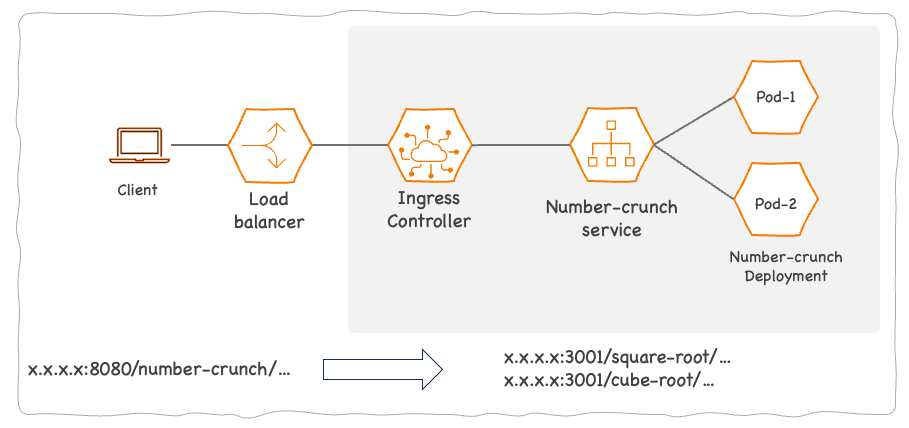
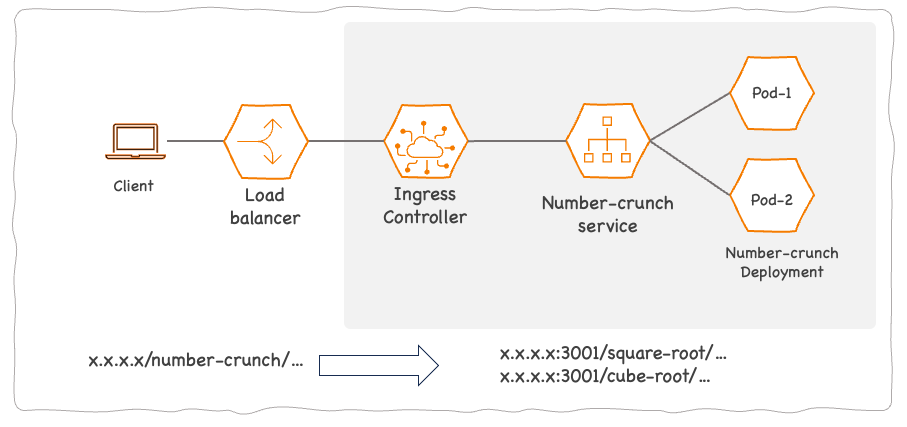
ingress usecases

diff --git a/_drafts/2023-07-01-how-to-use-kubernetes-ingress.md b/_drafts/2023-07-01-how-to-use-kubernetes-ingress.md
@@ -1,10 +1,10 @@
 ---
 layout: post
-title:  "What is Kubernetes Ingress"
+title:  "How to use Kubernetes ingress"
 description: > 
-  What is the purpose of Kubernetes Ingress and how to use it to expose HTTP(S) workloads.
+  X usecases of using ingress for exposing HTTP applications inside the cluster
 image: "k8s-ingress-cover.png"
-date:   2023-06-23 15:10:00 +0530
+date:   2023-07-13 15:10:00 +0530
 categories: [hands-on]
 tags: [Kubernetes]
 ---
@@ -13,66 +13,18 @@ tags: [Kubernetes]
 Ingress is a mechanism for exposing HTTP or HTTPS application running inside a Kubernetes cluster. 
 </div>
 
-An application running inside a Kubernetes cluster is not directly accessible from outside most of the time. For exposing such applications to outside clients, Kubernetes provides several methods.
+Kubernetes ingress is a mechanism for exposing applications running inside the Kubernetes cluster via HTTP or HTTPS.
 
-Ingress is one such method and is better suited for exposing Kubernetes Workloads via HTTP or HTTP(S).
+While there are several methods for exposing an application like NodePort or LoadBalancer, ingress is the best option for HTTP applications.
 
-Kubernetes has other mechanisms such as NodePort and LoadBalancer for non-HTTP usecases. 
-
-Unlike other mechanisms, ingress works in layer-7 of the OSI model. So, ingress supports SSL/TLS termination, and URL/subdomain based traffic routing and load balancing, so ingress provides a better mechanism that works only for HTTP(S) applications.
-
-# Ingress and Ingress Controller
-
-Ingress is an API object stored in the `etcd` data stoer in Kubernetes. Ingress defines the traffic routing rules. But ingress alone is not sufficient for routing traffic.
-
-The ingress controller is responsible for routing the HTTP(S) traffic according ot the rules defined in ingress. Typically, Ingress controller is deployed inside the cluster. But, cloud providers like AWS where Pod IP addresses are reachable in the VPC, ingress controller can reside outside the cluster.
-
-When the ingress controller is deployed inside the cluster, you need a load balancer to be deployed in front of the ingress controller. 
-
-<div class="inline-highlight">
-An Ingress object defines a set of rules for routing HTTP(S) traffic to Kubernetes Service(s).
-</div>
-An Ingress object defines how HTTP or HTTPS traffic must be routed to one or more Kubernetes Services.
-
-![Ingress and Ingress Controller](/assets/images/k8s-ingress-api-object.png){: width="100%" }
-*Ingress and Ingress Controller*
-
-# Ingress controller implementation
-An ingress controller has two parts.
-
-It has a reverst proxy which is responsible for routing HTTP(S) requests to appropriate backends - Kubernetes Services.
-
-The controller watches the Kubernetes API and configures the reverse proxy appropriately - when creating a new Ingress resource.
-
-![Concept of an ingress controller](/assets/images/k8s-ingress-controller-how.png){: width="100%" }
-*Concept of an ingress controller*
+We are going to check out x usecases of ingress.
 
 
-There are several ingress controller implementations - open-source and commercial, managed and self-managed.
+# Our Kubernetes setup
 
-## Open-source ingress controllers
+We'll be using MicroK8s from Canonical as our Kubernetes platform.
 
-[Ingrsss NGINX controller][ingress-nginx] is an open-source ingress controller that is supported and maintained by the Kubernetes project. It uses NGINX as a reverse proxy and load balancer. 
-
-HA Proxy ingress, Istio Ingree Gateway, and [Traefik Kubernetes ingress provider][traefik] are other open-source ingress controller implementations.
-
-## Commercial ingress controllers
-
-NGINX Ingress Controller - not to be confused with the open-source Ingress Nginx Controller - is a commercial ingress controller offered by Nginx. [FortiADC] is an ingress controller from Fortinet.
-
-## Managed ingress controllers 
-
-Running Kubernetes on the public cloud, you can take the advantage of managed ingress controllers offered by the cloud providers. [AWS Load Balancer Controller][aws-lbc], [GKE Ingress from GCP][gke-ingress], and [Web application routing add-on from Azure][azure-ingress] are such managed ingress controllers.
-
-These managed ingress controllers are offered as add-on to the managed Kubernetes distributions in the respective cloud providers. Once you enable the add-on, the cloud provider takes care of provisioning cloud resources like load balancers when you create ingress objects.
-
-You can also use other ingress controllers like [Ingress Nginx controller][ingress-nginx] on public clouds. Then you need to provision a network load balancer to route traffic from exteranl applications to the Ingress controller inside the Kubernetes cluster.
-
-
-# Working with ingress
-Now that we are familiar with the working of ingress and ingress controller, let's use Kubernetes ingress to expose an application to outside.
-
-We'll use MicroK8s from Canonical. It's easy to setup and porvides Ingress NGINX Controller as an add-on. Since Ingress NGINX Controller is installed inside the cluster, we also need a load balancer which MicroK8s provide ass another add-on.
+It has Ingress NGINX Controller and MetalLB load balancer ass add-ons.
 
 Enable both add-ons.
 
@@ -81,13 +33,33 @@ microk8s enable ingress
 microk8s enable metallb
 ```
 
-If you are working on a vanilla Kubernetes cluster, you can install Ingress NGINX controller with Helm charts or YAML manifests and `kubectl`.
+Check the status of the Ingress NGINX.
+```shell
+kubectl get pods -n ingress
+```
 
-Then you can install MetalLB by following the relevant installation instructions.
+```shell
+NAME                                      READY   STATUS    RESTARTS   AGE
+nginx-ingress-microk8s-controller-8672t   1/1     Running   0          71d
+nginx-ingress-microk8s-controller-rdmtb   1/1     Running   0          71d
+nginx-ingress-microk8s-controller-lm6l4   1/1     Running   0          71d
+```
 
-MicroK8s and the other installation methods deploys the Ingress NGINX controller as a Daemonset. 
+Check the status of MetalLB
+```shell
+kubectl get pods -n metallb-system
+```
 
-You can run an ingress Controller as a Deploymet also. But, the Daemonset is preferred as it will be risielent agains failure of multiple nodes in the cluster.
+```shell
+NAME                         READY   STATUS    RESTARTS      AGE
+speaker-xfbbt                1/1     Running   6 (72d ago)   99d
+controller-9556c586f-g9r7w   1/1     Running   3 (72d ago)   99d
+speaker-flkmb                1/1     Running   6 (72d ago)   99d
+speaker-h9972                1/1     Running   3 (72d ago)   99d
+```
+
+If all Pods are in `Running ` status, you can proceed to the next step.
+
 
 
 ## number-crunch application
@@ -97,6 +69,11 @@ The application we are going to use is [number-crunch](https://github.com/cloudq
 *number-crunch application*
 
 ## Deploying number-crunch on Kubernetes
+
+We are going to deploy this application with two replicas in to the Kubernetes cluster and expose to the outside world via ingress.
+
+![number-crunch application deployment](/assets/images/k8s-ingress-number-crunch-1-without-prefix.png){: width="100%" }
+*number-crunch application deployment*
 
 We will use `kubectl` to deploy the application to the Kubernetes cluster.
 
@@ -136,10 +113,9 @@ kubectl get pods -o wide
 If both Pods are `running`, the deployment is successful. 
 
 ```shell
-NAME                                READY   STATUS    RESTARTS       AGE    IP            NODE         NOMINATED NODE   READINESS GATES
-number-crunch-app-dfc76fcf9-wz6sn   1/1     Running   0              21h    10.1.131.49   microk8s70   <none>           <none>
-number-crunch-app-dfc76fcf9-bwpt6   1/1     Running   0              21h    10.1.209.44   microk8s60   <none>           <none>
-ubuntu@microk8s40:~$ 
+NAME                                 READY   STATUS    RESTARTS       AGE     IP            NODE         NOMINATED NODE   READINESS GATES
+number-crunch-app-5866dd4d7f-zslzf   1/1     Running   0              3m33s   10.1.209.48   microk8s60   <none>           <none>
+number-crunch-app-5866dd4d7f-74w9v   1/1     Running   0              3m33s   10.1.131.52   microk8s70   <none>           <none>
 ```
 If you get the `ImagePullBackOff` error, wait a while for the node to retry.
 
@@ -175,7 +151,7 @@ kubectl get services
 
 ```shell
 NAME                    TYPE           CLUSTER-IP       EXTERNAL-IP   PORT(S)          AGE
-number-crunch-service   ClusterIP      10.152.183.242   <none>        3001/TCP         6s
+number-crunch-service   ClusterIP      10.152.183.17    <none>        3001/TCP         5m10s
 ```
 
 ## Creating an ingress
@@ -185,18 +161,23 @@ apiVersion: networking.k8s.io/v1
 kind: Ingress
 metadata:
   name: number-crunch-ingress
+  annotations:
+    nginx.ingress.kubernetes.io/use-regex: "true"
+    nginx.ingress.kubernetes.io/rewrite-target: /$1
 spec:
   ingressClassName: nginx
   rules:
   - http:
       paths:
-      - path: /
+      - path: /number-crunch/(.*)
         pathType: Prefix
         backend:
           service:
             name: number-crunch-service
             port:
               number: 3001
+
+
 ```
 
 Copy this to `ingress.yml` and create the ingress resource.
@@ -221,6 +202,13 @@ curl http://127.0.0.1:80/square-root/4
 ```shell
 {"InputNumber":4,"SquareRoot":2}
 ```
+
+# Usecase-#2 URL prefix
+
+To avoid any possible URL duplications, we shall add the prefix `number-crunch` to both endpoints.
+
+![number-crunch application deployment](/assets/images/k8s-ingress-number-crunch-1.png){: width="100%" }
+*number-crunch application deployment*
 
 ## IngressClassName
 
